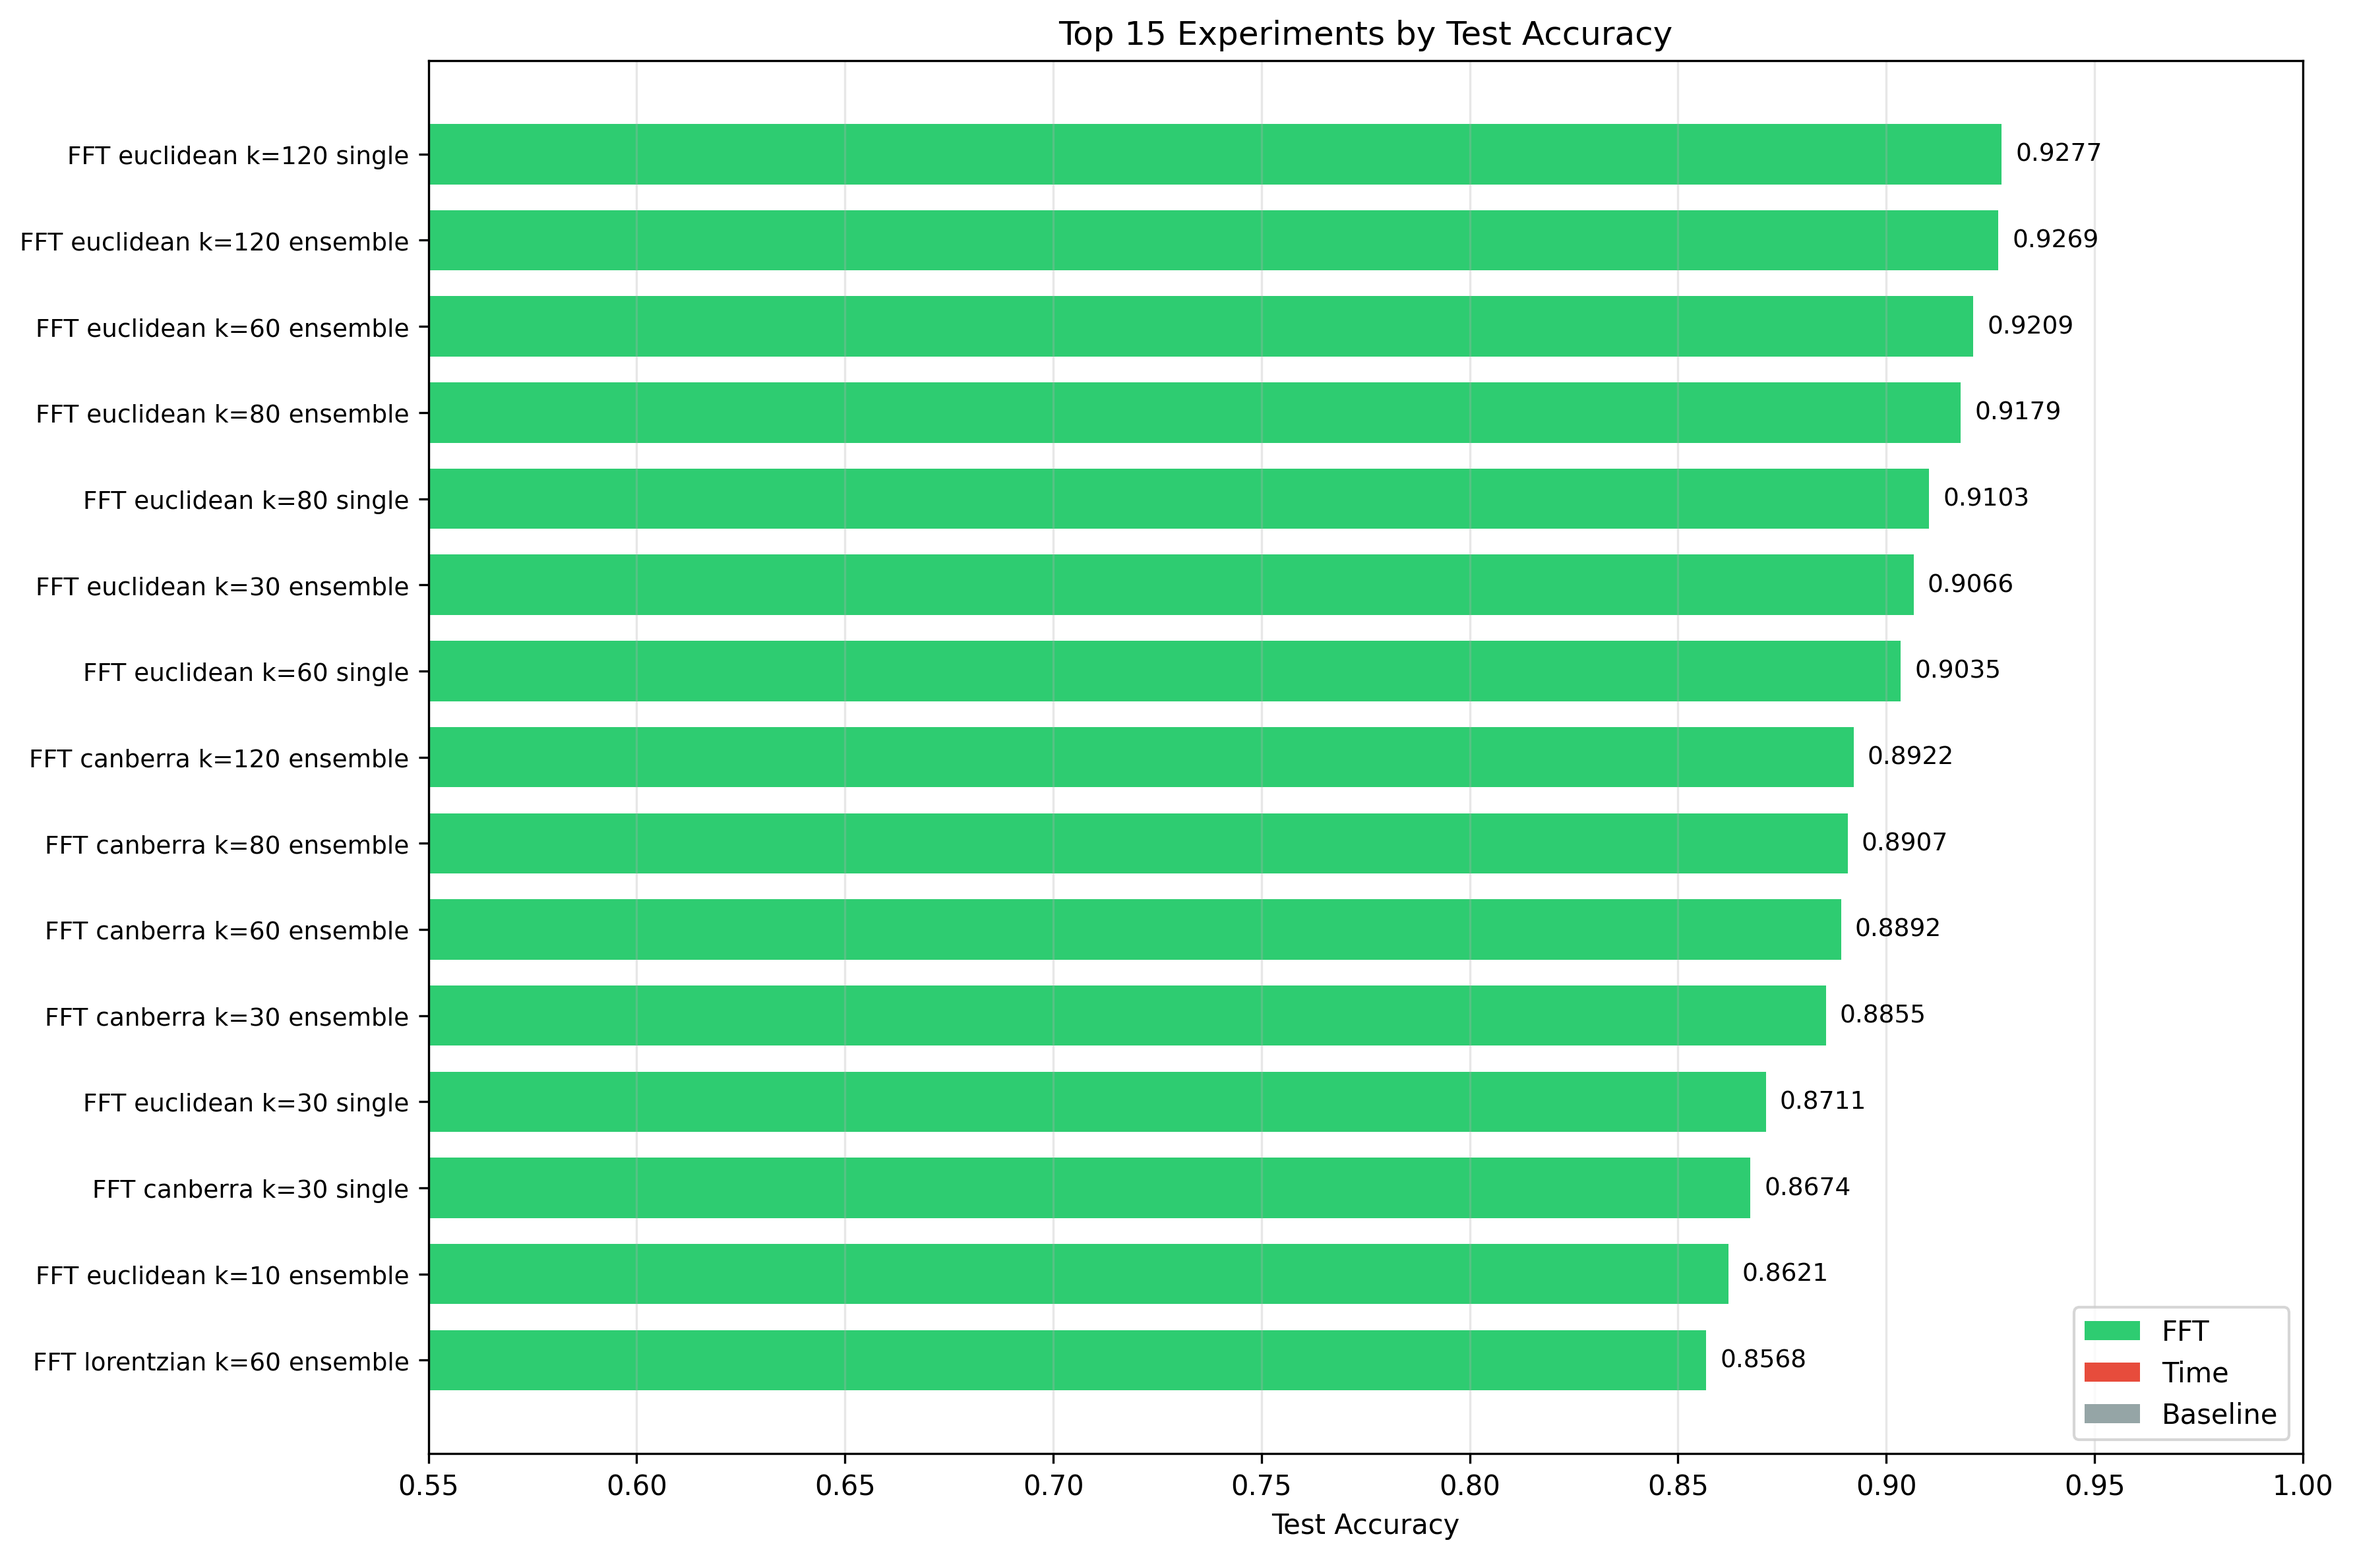
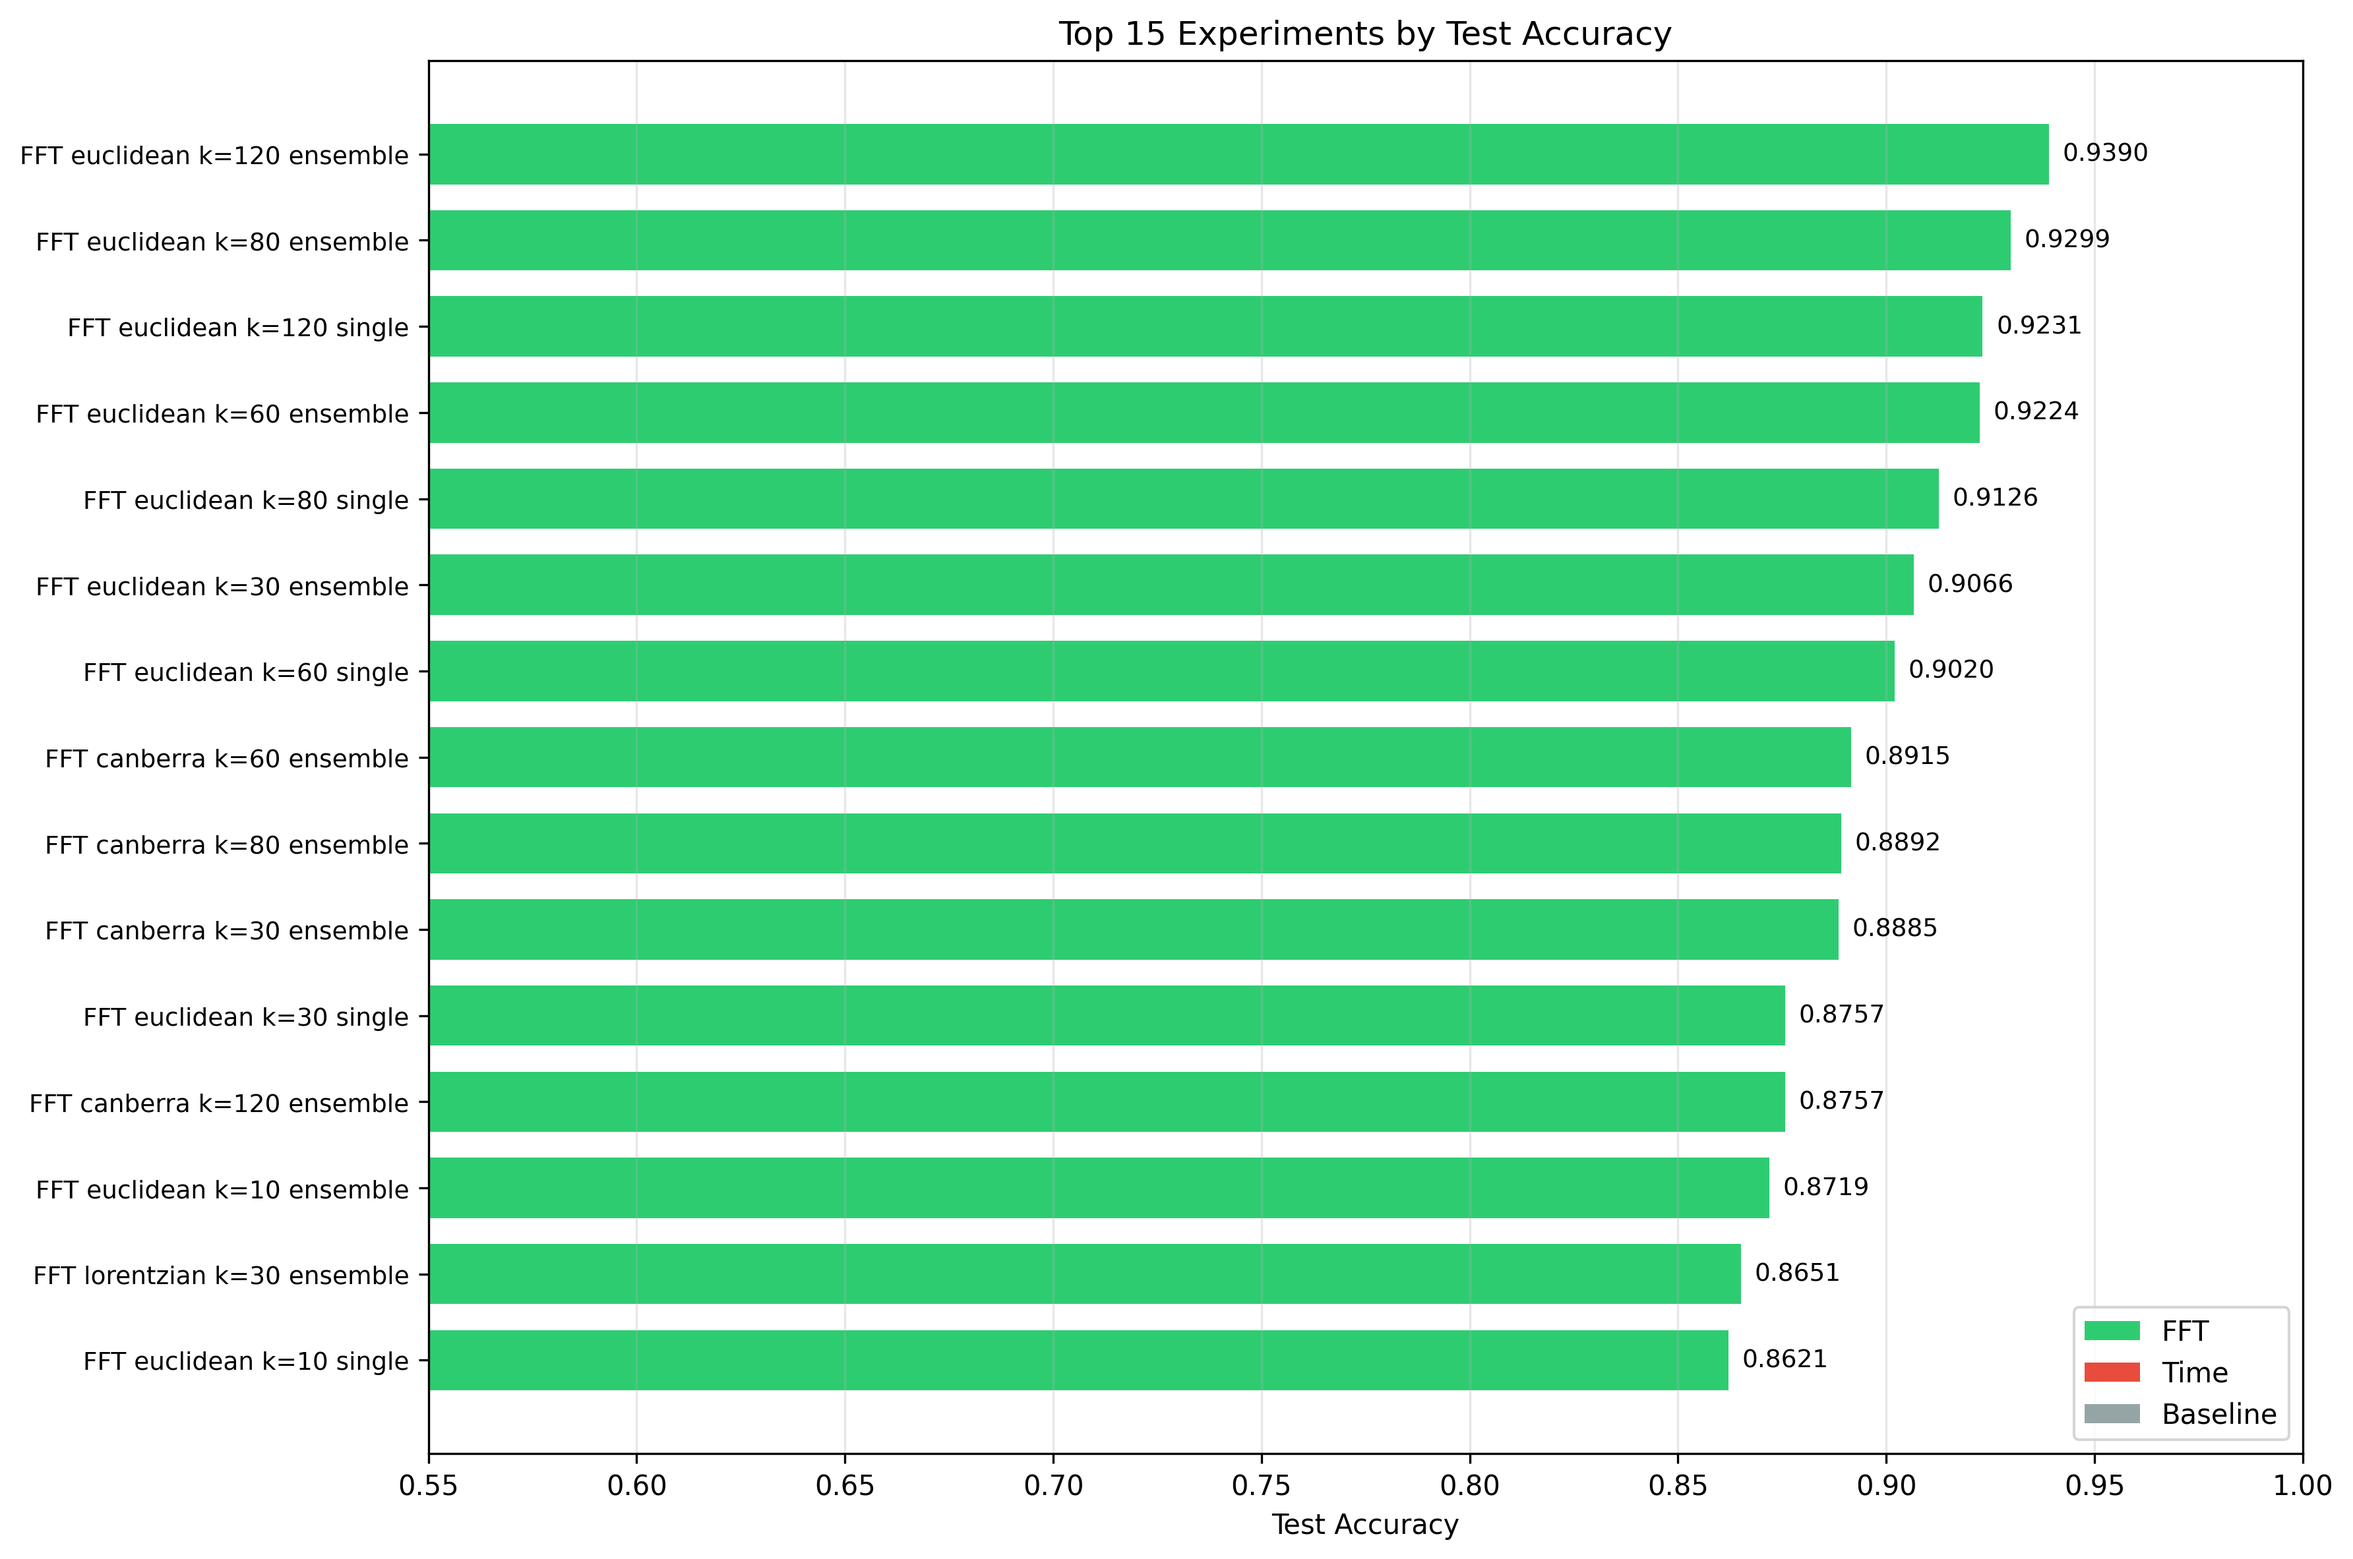
Update results after removing ablation seed for proper ensemble diversity
- Remove np.random.seed from ablation.py so ensemble models get diverse pivots
- Update README with current results: best ensemble 93.90%, ensemble gains 1-7.5pp
- Clarify GMM analysis is on single model (ensemble has no single decision function)
- Refresh overall_ranking figure

diff --git a/src/ablation.py b/src/ablation.py
@@ -134,7 +134,6 @@ def run_ensemble(X_train, y_train, X_val, y_val, X_test, y_test,
 
 
 def run_ablation():
-    np.random.seed(42)
     # Setup directories
     for subdir in ["models", "results", "embeddings"]:
         os.makedirs(os.path.join(CONFIG['output_dir'], subdir), exist_ok=True)

diff --git a/README.md b/README.md
@@ -96,11 +96,11 @@ We swept across 4 axes to isolate the contribution of each design choice:
 
 | Rank | Config | Test Acc | Val Acc |
 |------|--------|----------|---------|
-| 1 | FFT + Euclidean, k=120, single | **92.77%** | 91.41% |
-| 2 | FFT + Euclidean, k=120, ensemble | 92.69% | 91.41% |
-| 3 | FFT + Euclidean, k=60, ensemble | 92.09% | 88.64% |
-| 4 | FFT + Euclidean, k=80, ensemble | 91.79% | 90.86% |
-| 5 | FFT + Euclidean, k=80, single | 91.03% | 90.86% |
+| 1 | FFT + Euclidean, k=120, ensemble | **93.90%** | 91.20% |
+| 2 | FFT + Euclidean, k=80, ensemble | 92.99% | 89.75% |
+| 3 | FFT + Euclidean, k=120, single | 92.31% | 91.20% |
+| 4 | FFT + Euclidean, k=60, ensemble | 92.24% | 88.64% |
+| 5 | FFT + Euclidean, k=80, single | 91.26% | 89.75% |
 | - | Baseline (Random Forest) | 62.62% | 64.54% |
 
 ![Overall Ranking](figures/overall_ranking.png)
@@ -109,7 +109,7 @@ We swept across 4 axes to isolate the contribution of each design choice:
 
 **1. FFT is the single most important factor**
 
-FFT features outperform time-domain features by 4-21 percentage points across most distance metrics and k values. The best time-domain result (Lorentzian, k=120, ensemble: 80.26%) is still far below the worst competitive FFT result.
+FFT features outperform time-domain features by 5-22 percentage points across most distance metrics and k values. The best time-domain result (Lorentzian, k=120, ensemble: 79.73%) is still far below the worst competitive FFT result.
 
 This works because FFT makes the representation **shift-invariant** -- seismic events have variable arrival times, so time-domain distances are dominated by alignment noise. FFT captures *what* energy is present, not *when* it arrives.
 
@@ -117,30 +117,30 @@ This works because FFT makes the representation **shift-invariant** -- seismic e
 
 | Distance | Best Test Acc (ensemble) |
 |----------|------------------------|
-| Euclidean | 92.69% |
-| Canberra | 89.22% |
-| Lorentzian | 85.68% |
+| Euclidean | 93.90% |
+| Canberra | 89.15% |
+| Lorentzian | 86.51% |
 
-Euclidean outperforms alternatives by 2-9% in the FFT domain. Lorentzian and Canberra, which were designed for robustness to outliers and relative differences, don't help when the features are already well-normalized by the FFT+L2 pipeline.
+Euclidean outperforms alternatives by 1-9% in the FFT domain. Lorentzian and Canberra, which were designed for robustness to outliers and relative differences, don't help when the features are already well-normalized by the FFT+L2 pipeline.
 
 **3. More dimensions help, with diminishing returns**
 
 | k | Euclidean FFT (ensemble) |
 |---|--------------------------|
-| 2 | 59.01% |
-| 10 | 86.21% |
+| 2 | 61.19% |
+| 10 | 87.19% |
 | 30 | 90.66% |
-| 60 | 92.09% |
-| 80 | 91.79% |
-| 120 | 92.69% |
+| 60 | 92.24% |
+| 80 | 92.99% |
+| 120 | 93.90% |
 
 k=2 is essentially useless. The jump from k=10 to k=30 is large (+4.5%), then gains taper off. k=80-120 is the sweet spot.
 
 Notably, Lorentzian *degrades* at higher k (peaks at k=30, drops at k=60+), suggesting it doesn't scale well with many dimensions.
 
-**4. Ensemble helps most on weaker configs**
+**4. Ensemble consistently improves accuracy**
 
-Ensemble voting (5 independent FastMap projections with different random pivots) improves accuracy for most configurations, with gains of up to 7.5 percentage points (Canberra at k=80). The benefit is largest for weaker distance metrics; for Euclidean at high k, the gain is negligible as a single model already achieves near-optimal performance.
+Ensemble voting (5 independent FastMap projections with different random pivots) consistently improves accuracy by 1-7.5 percentage points. For Euclidean distance, the gain is a steady 1.5-3pp across all k values. For weaker metrics like Lorentzian, gains reach up to 7.5pp (at k=80), as ensemble voting compensates for suboptimal pivot selection.
 
 **5. Validation accuracy tracks test accuracy well**
 
@@ -148,15 +148,15 @@ The val-vs-test scatter plot shows strong correlation, confirming the validation
 
 ### Per-Class Performance
 
-Best model (FFT + Euclidean, k=120, single):
-- Earthquake F1: 0.917
-- Explosion F1: 0.936
+Best model (FFT + Euclidean, k=120, ensemble):
+- Earthquake F1: 0.929
+- Explosion F1: 0.947
 
 The model is slightly better at detecting explosions, likely because their spectral signatures (sharp high-frequency peaks) are more distinctive than the diffuse energy patterns of earthquakes.
 
 ## Statistical Analysis of the Decision Function
 
-We observed that the SVM decision function values for each class closely resemble Gaussian distributions. To rigorously validate this and exploit it, we conducted a deep statistical analysis.
+We observed that the SVM decision function values for each class closely resemble Gaussian distributions. To rigorously validate this and exploit it, we conducted a deep statistical analysis on a single SVM model (FFT + Euclidean, k=120). The ensemble uses majority voting across 5 models and does not produce a single decision function, so the distributional analysis characterizes individual models within the ensemble.
 
 ### Gaussian Mixture Model Validation
 
